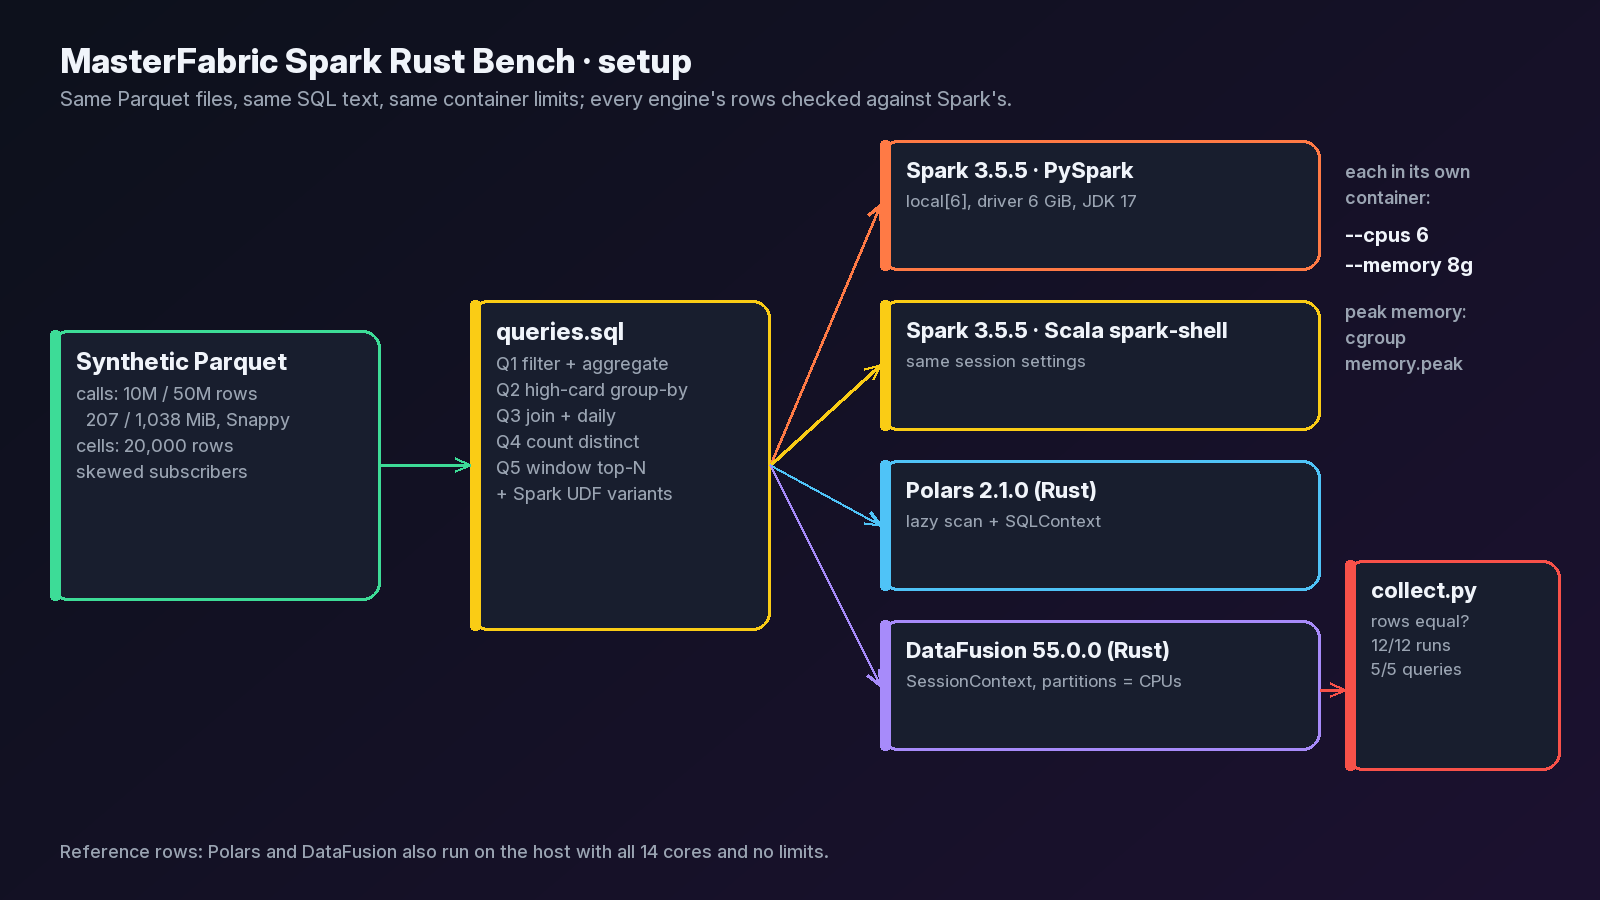
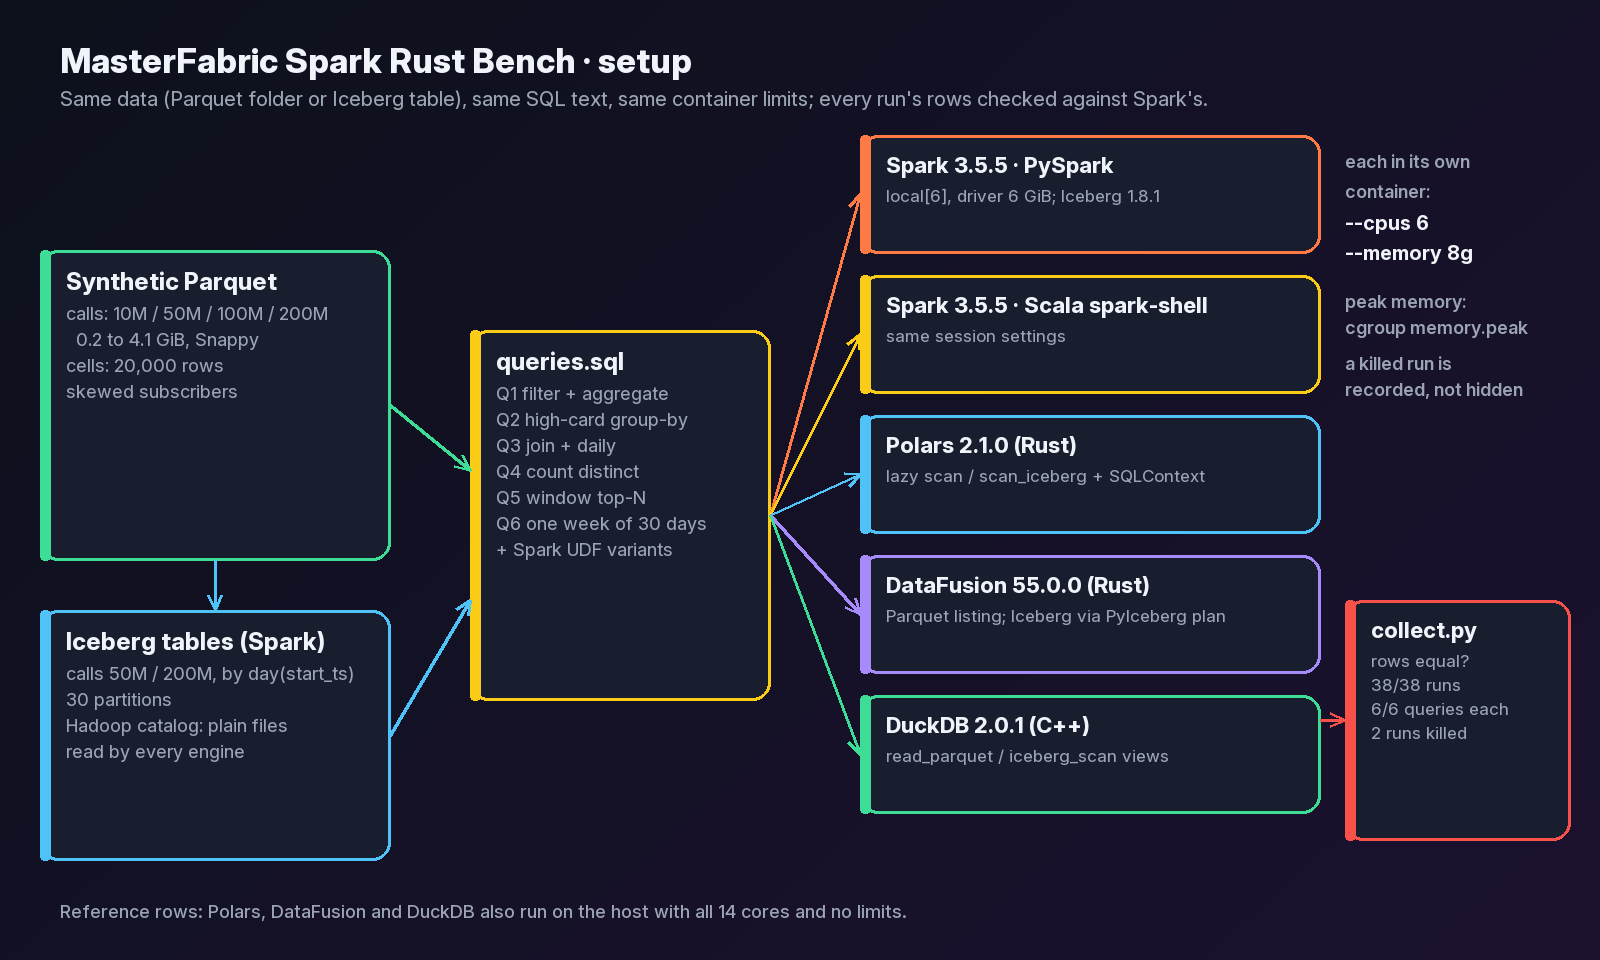
docs: setup diagram with DuckDB, the Iceberg tables and run counts read from the results

diff --git a/viz/make_diagrams.py b/viz/make_diagrams.py
@@ -1,35 +1,47 @@
-"""Benchmark setup diagram (Pillow)."""
-from mfviz import GREEN, GREY, ICE, IMG, ORANGE, PURPLE, RED, WHITE, YELLOW, arrow, box, canvas, font
+"""Benchmark setup diagram (Pillow). Counts are read from results/summary.json."""
+import json
+
+from mfviz import GREEN, GREY, ICE, IMG, ORANGE, PURPLE, RED, RESULTS, WHITE, YELLOW, arrow, box, canvas, font
 
 
 def setup():
-    im, d = canvas(1600, 900)
+    s = json.loads((RESULTS / "summary.json").read_text())
+    runs = len(s["checks"])
+    ok_runs = sum(all(v.values()) for v in s["checks"].values())
+    fails = len(s.get("failures", {}))
+    im, d = canvas(1600, 960)
     d.text((60, 40), "MasterFabric Spark Rust Bench · setup", font=font(34, 800), fill=WHITE)
-    d.text((60, 86), "Same Parquet files, same SQL text, same container limits; every engine's rows checked against Spark's.",
+    d.text((60, 86), "Same data (Parquet folder or Iceberg table), same SQL text, same container limits; every run's rows checked against Spark's.",
            font=font(20, 450), fill=GREY)
-    box(d, (50, 330, 380, 600), "Synthetic Parquet", ["calls: 10M / 50M rows", "  207 / 1,038 MiB, Snappy", "cells: 20,000 rows",
+    box(d, (40, 250, 390, 560), "Synthetic Parquet", ["calls: 10M / 50M / 100M / 200M", "  0.2 to 4.1 GiB, Snappy", "cells: 20,000 rows",
                                                        "skewed subscribers"], GREEN, line_size=18)
-    box(d, (470, 300, 770, 630), "queries.sql", ["Q1 filter + aggregate", "Q2 high-card group-by", "Q3 join + daily",
-                                                  "Q4 count distinct", "Q5 window top-N", "+ Spark UDF variants"], YELLOW, line_size=18)
-    y = 140
-    for title, lines, col in (("Spark 3.5.5 · PySpark", ["local[6], driver 6 GiB, JDK 17"], ORANGE),
+    box(d, (40, 610, 390, 860), "Iceberg tables (Spark)", ["calls 50M / 200M, by day(start_ts)", "30 partitions", "Hadoop catalog: plain files",
+                                                            "read by every engine"], ICE, line_size=18)
+    arrow(d, (215, 560), (215, 610), ICE)
+    box(d, (470, 330, 770, 700), "queries.sql", ["Q1 filter + aggregate", "Q2 high-card group-by", "Q3 join + daily",
+                                                  "Q4 count distinct", "Q5 window top-N", "Q6 one week of 30 days", "+ Spark UDF variants"],
+        YELLOW, line_size=18)
+    y = 135
+    for title, lines, col in (("Spark 3.5.5 · PySpark", ["local[6], driver 6 GiB; Iceberg 1.8.1"], ORANGE),
                               ("Spark 3.5.5 · Scala spark-shell", ["same session settings"], YELLOW),
-                              ("Polars 2.1.0 (Rust)", ["lazy scan + SQLContext"], ICE),
-                              ("DataFusion 55.0.0 (Rust)", ["SessionContext, partitions = CPUs"], PURPLE)):
-        box(d, (880, y, 1320, y + 130), title, lines, col, title_size=22, line_size=17)
-        arrow(d, (770, 465), (880, y + 65), col)
-        y += 160
-    d.text((1345, 160), "each in its own", font=font(18, 600), fill=GREY)
-    d.text((1345, 186), "container:", font=font(18, 600), fill=GREY)
-    d.text((1345, 222), "--cpus 6", font=font(20, 700), fill=WHITE)
-    d.text((1345, 252), "--memory 8g", font=font(20, 700), fill=WHITE)
-    d.text((1345, 300), "peak memory:", font=font(18, 600), fill=GREY)
-    d.text((1345, 326), "cgroup", font=font(18, 600), fill=GREY)
-    d.text((1345, 352), "memory.peak", font=font(18, 600), fill=GREY)
-    box(d, (1345, 560, 1560, 770), "collect.py", ["rows equal?", "12/12 runs", "5/5 queries"], RED, title_size=22, line_size=17)
-    arrow(d, (1320, 690), (1345, 690), RED)
-    arrow(d, (380, 465), (470, 465), GREEN)
-    d.text((60, 840), "Reference rows: Polars and DataFusion also run on the host with all 14 cores and no limits.", font=font(18, 500), fill=GREY)
+                              ("Polars 2.1.0 (Rust)", ["lazy scan / scan_iceberg + SQLContext"], ICE),
+                              ("DataFusion 55.0.0 (Rust)", ["Parquet listing; Iceberg via PyIceberg plan"], PURPLE),
+                              ("DuckDB 2.0.1 (C++)", ["read_parquet / iceberg_scan views"], GREEN)):
+        box(d, (860, y, 1320, y + 118), title, lines, col, title_size=22, line_size=17)
+        arrow(d, (770, 515), (860, y + 59), col)
+        y += 140
+    for i, (t, w) in enumerate((("each in its own", 600), ("container:", 600), ("--cpus 6", 700), ("--memory 8g", 700))):
+        d.text((1345, 150 + i * 30), t, font=font(18 if w == 600 else 20, w), fill=GREY if w == 600 else WHITE)
+    d.text((1345, 290), "peak memory:", font=font(18, 600), fill=GREY)
+    d.text((1345, 316), "cgroup memory.peak", font=font(18, 600), fill=GREY)
+    d.text((1345, 352), "a killed run is", font=font(18, 600), fill=GREY)
+    d.text((1345, 378), "recorded, not hidden", font=font(18, 600), fill=GREY)
+    box(d, (1345, 600, 1570, 840), "collect.py", ["rows equal?", f"{ok_runs}/{runs} runs", "6/6 queries each", f"{fails} runs killed"],
+        RED, title_size=22, line_size=17)
+    arrow(d, (1320, 720), (1345, 720), RED)
+    arrow(d, (390, 405), (470, 470), GREEN)
+    arrow(d, (390, 735), (470, 600), ICE)
+    d.text((60, 900), "Reference rows: Polars, DataFusion and DuckDB also run on the host with all 14 cores and no limits.", font=font(18, 500), fill=GREY)
     im.save(IMG / "setup.png", optimize=True)
 
 
